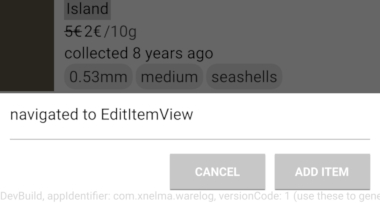
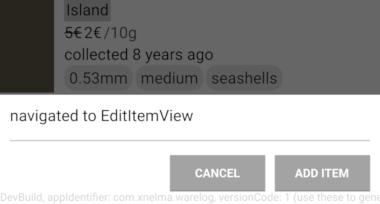
feat: change button color to a darker grey

diff --git a/doc/tutorial/04-theme.html b/doc/tutorial/04-theme.html
@@ -18,7 +18,7 @@
 <h1 class="title">Set Theme Colors</h1>
 <!-- $$$04-theme.html-description -->
 <div class="descr" id="details">
-<p>In this step I would like to change to a different accent color. As list items will have colored rectangles as part of their layout, I will choose a neutral grey tone, <code translate="no">#c7c7c7</code>.</p>
+<p>In this step I would like to change to a different accent color. As list items will have colored rectangles as part of their layout, I will choose a neutral but light grey tone, <code translate="no">#c7c7c7</code>.</p>
 <p>For the <code translate="no">App</code> component by Felgo, there is the <code translate="no">onInitTheme</code> property and the <code translate="no">Theme</code> component. The <code translate="no">tintColor</code> in <code translate="no">Theme.colors</code> would correspond to the accent color, so the following lines are enough to set it:</p>
 <pre class="cpp" translate="no">App {
     onInitTheme: {
@@ -26,10 +26,13 @@
     }
     <span class="operator">.</span><span class="operator">.</span><span class="operator">.</span>
 }</pre>
+<p>As this grey is a bit too light for buttons, or more generally for UI elements with text that needs to be read more often and quickly, don't use the tint color for them, but a slightly darker grey:</p>
+<pre class="cpp" translate="no">Theme<span class="operator">.</span>appButton<span class="operator">.</span>backgroundColor <span class="operator">=</span> <span class="string">&quot;#a3a3a3&quot;</span></pre>
 <p>Another property that can be set is the shadow height of the navigation bar. To remove the shadow, add the following line:</p>
 <pre class="cpp" translate="no">Theme<span class="operator">.</span>navigationBar<span class="operator">.</span>shadowHeight <span class="operator">=</span> <span class="number">0</span></pre>
 <p>Now both the navigation bar and the swipe button have the tint color set to grey, and the navigation bar has the shadow removed.</p>
-<p class="centerAlign"><img src="images/theme_color.jpg" alt="{The theme has now a grey tint as accent color}" /></p></div>
+<p class="centerAlign"><img src="images/theme_color.jpg" alt="{The theme has now a grey tint as accent color}" /></p><p>When we use buttons later on, they should show the slightly darker grey as their background color.</p>
+</div>
 <!-- @@@04-theme.html -->
 <p class="naviNextPrevious footerNavi">
 <a class="prevPage" href="03-delete.html">Delete Item</a>

diff --git a/qml/Main.qml b/qml/Main.qml
@@ -7,6 +7,7 @@ App {
 
     onInitTheme: {
         Theme.colors.tintColor = "#c7c7c7"
+        Theme.appButton.backgroundColor = "#a3a3a3"
         Theme.navigationBar.shadowHeight = 0
     }
 
